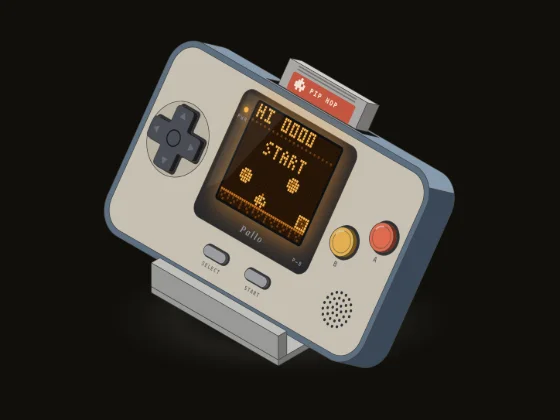
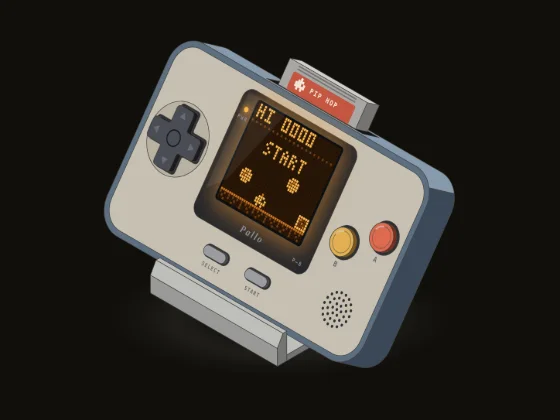
Give the handheld console's stand a chamfered lip
The stand was two plain boxes; it is now one display-stand profile: a thin base under the console and a lip with a chamfered top edge in front of the face, drawn as prisms through projected points. The shade callback that split the shell's sides took a parameter it never read; it now takes the normal. The thumbnails are shot again.

Changed region(s): [[0.2429, 0.619, 0.5161, 0.8667]]

diff --git a/packages/miniatures/src/figures/handheld-console.ts b/packages/miniatures/src/figures/handheld-console.ts
@@ -29,8 +29,8 @@ The console leans back 35° from upright. On it, u runs across (+x), v down its 
 from O, the face's top left corner; a lift of w moves a face point by (EU·w, EV·w), so the whole console is drawn in face
 coordinates: its silhouette as paths through Q, the parts on its face in one plane group.
 Part                     u / x        v / y        w / z        w     h
-stand base               38–112      −24–5          0–3         74    29   the console's bottom edge rests on it
-stand lip                38–112        0–5          3–15        74     5   in front of the face's bottom edge
+stand base               38–112      −24–0          0–3         74    24   the console's bottom edge rests on it
+stand lip                38–112        0–5.5        0–15        74   5.5   chamfered, in front of the face's bottom edge
 body (two-tone shell)     0–150        0–88       −18–0        150    88   r 13: a slate shell, the cream face plate inset 2.6
 screen bezel             42–108        6–64          0          66    58   the LCD, 40 × 36 px at 1.2, from (51, 9.5); LED, wordmark
 d-pad                    c 21 · 40, span 26.8, arms 9.4, 3.1 proud; it rocks 1.5 toward the arm pressed
@@ -40,7 +40,7 @@ speaker grille           c 130 · 68.5: rings of holes to r 7.2
 cartridge                52.5–97.5   −12–32      −13.5–−5       45    44   out of the slot in the top edge; ejects 18 further
 Print, lamps and labels share their parent face. */
 const svg=document.getElementById('machine'),root=document.getElementById('drawing');
-const{P,set,el,group,rect,circle,line,text,box}=kit(()=>root);
+const{P,set,el,group,rect,circle,line,text}=kit(()=>root);
 const f2=v=>(+v).toFixed(2),f4=v=>(+v).toFixed(4),clamp=(v,a=0,b=1)=>Math.max(a,Math.min(b,v)),RAD=Math.PI/180,ease=t=>(t=clamp(t),t*t*(3-2*t));
 // The console's frame: its face plane, the lift along its normal, and face coordinates to the drawing.
 const LEAN=35*RAD,SL=Math.sin(LEAN),CL=Math.cos(LEAN),W=150,H=88,T=18,R=13,ZB=3+T*SL;
@@ -56,19 +56,21 @@ function rpts(poly,rad,n=4){const m=poly.length,out=[];for(let i=0;i<m;i++){cons
 for(let k=0;k<=n;k++){const q=k/n,o=1-q;out.push([o*o*p0[0]+2*o*q*b[0]+q*q*p2[0],o*o*p0[1]+2*o*q*b[1]+q*q*p2[1]]);}}return out;}
 // The visible runs of an outline's sides (an edge faces the viewer when its outward normal runs against the lift), split by shade.
 function runs(pts,shade){const n=pts.length,nrm=pts.map((a,i)=>{const b=pts[(i+1)%n],nu=b[1]-a[1],nv=a[0]-b[0],l=Math.hypot(nu,nv)||1;return[nu/l,nv/l];});
-const vis=nrm.map(([nu,nv])=>nu*EU+nv*EV<-1e-6),cl=nrm.map(([nu,nv])=>shade?shade(nu,nv):''),out=[];
+const vis=nrm.map(([nu,nv])=>nu*EU+nv*EV<-1e-6),cl=nrm.map(n=>shade?shade(n):''),out=[];
 for(let i=0;i<n;i++){const h=(i+n-1)%n;if(!vis[i]||(vis[h]&&cl[h]===cl[i]))continue;const ch=[pts[i]];let j=i;do{j=(j+1)%n;ch.push(pts[j]);}while(vis[j]&&cl[j]===cl[i]&&j!==i);out.push({ch,c:cl[i]});}
 return out;}
 const band=(ch,lo,hi)=>[...ch.map(p=>lift(p,lo(p))),...ch.slice().reverse().map(p=>lift(p,hi(p)))];
 const at=k=>()=>k;
+// A prism along x through a profile in (y, z), counterclockwise: the faces that face the viewer, then its end at x1.
+function prism(pr,x0,x1,cls){const n=pr.length;pr.forEach((a,i)=>{const b=pr[(i+1)%n],ny=b[1]-a[1],nz=a[0]-b[0];if(ny+nz<=0)return;el('path',{d:dp([[x0,...a],[x1,...a],[x1,...b],[x0,...b]].map(q=>P(...q))),class:`face ${nz>.4*Math.hypot(ny,nz)?'top ':''}${cls}`});});el('path',{d:dp(pr.map(([y,z])=>P(x1,y,z))),class:'face side '+cls});}
 function ctl(g,label,tab){for(const[k,v]of Object.entries({class:'control',role:'button',tabindex:tab?'0':'-1','aria-label':label}))set(g,k,v);return g;}
 
 // Floor: the soft ground shadow (and the dark stage's contact shadow), then the stand's base under the console.
 const sc=P(88,-20,0);for(const c of['shadow stage-floor','stage-contact'])el('ellipse',{cx:f2(sc[0]),cy:f2(sc[1]),rx:60,ry:21,class:c});
-box(38,-24,0,74,29,3,.5,'stand');
+prism([[-24,0],[0,0],[0,3],[-24,3]],38,112,'stand');
 // The body: its shell's visible sides (the top edge lighter), the shell's front rim and the cream face plate.
 const BODY=rrp(0,0,W,H,R,12);
-for(const r of runs(BODY,(nu,nv)=>nv<-.6?'top':'side'))el('path',{d:dp(band(r.ch,at(-T),at(0)),Q),class:`face ${r.c} shell`});
+for(const r of runs(BODY,n=>n[1]<-.6?'top':'side'))el('path',{d:dp(band(r.ch,at(-T),at(0)),Q),class:`face ${r.c} shell`});
 el('path',{d:dp(BODY,Q),class:'face shell'});el('path',{d:dp(rrp(2.6,2.6,W-5.2,H-5.2,R-2.6,12),Q),class:'face plate'});
 el('path',{d:dp([[47,0,-3.4],[103,0,-3.4],[103,0,-15],[47,0,-15]].map(([u,v,w])=>lift([u,v],w)),Q),class:'face slot'});
 // The face: bezel with the LCD window, the LED and wordmark; seats for the buttons; the speaker grille; print.
@@ -126,11 +128,11 @@ function drawCart(d){const vt=-12-d,F=list=>dp(list.map(([u,v,w])=>qp(u,v,w)));
 set(cartR,'d',F([[CU1,vt,CW1],[CU1,vt,CW0],[CU1,0,CW0],[CU1,0,CW1]]));set(cartT,'d',F([[CU0,vt,CW0],[CU1,vt,CW0],[CU1,vt,CW1],[CU0,vt,CW1]]));set(cartF,'d',F([[CU0,vt,CW1],[CU1,vt,CW1],[CU1,0,CW1],[CU0,0,CW1]]));
 set(lab,'transform',`${FACE} translate(${f4(EU*CW1)} ${f4(EV*CW1-d)})`);set(sticker,'height',f2(8.2+Math.min(d,12)));
 set(cartRing,'d',F([[CU0-1.5,vt-1.5,CW1],[CU1+1.5,vt-1.5,CW1],[CU1+1.5,vt-1.5,CW0],[CU1+1.5,1,CW0],[CU0-1.5,1,CW1]]));}
-// The stand's lip, in front of the face's bottom edge.
-box(38,0,3,74,5,12,.5,'stand');
+// The stand's lip, chamfered, in front of the face's bottom edge.
+prism([[0,0],[5.5,0],[5.5,9],[2.2,15],[0,15]],38,112,'stand');
 // Framed on the console, the cartridge at the top of its eject, the stand and the dark stage's wider floor pool.
 {const pts=[...BODY.flatMap(p=>[Q(p),Q(lift(p,-T))]),...[[CU0,-30,CW1],[CU1,-30,CW0]].map(([u,v,w])=>qp(u,v,w))];
-for(const x of[38,112])for(const y of[-24,5])for(const z of[0,15])pts.push(P(x,y,z));pts.push([sc[0]-90,sc[1]-31.5],[sc[0]+90,sc[1]+31.5]);
+for(const x of[38,112])for(const y of[-24,5.5])for(const z of[0,15])pts.push(P(x,y,z));pts.push([sc[0]-90,sc[1]-31.5],[sc[0]+90,sc[1]+31.5]);
 const xs=pts.map(p=>p[0]),ys=pts.map(p=>p[1]),x0=Math.min(...xs)-6,y0=Math.min(...ys)-6;set(svg,'viewBox',[x0,y0,Math.max(...xs)+6-x0,Math.max(...ys)+6-y0].map(v=>+v.toFixed(2)).join(' '));}
 
 // Pip Hop, on a 40 × 36 LCD: a score and hearts on top, then five rows of five-pixel cells over the ground. Coins fall a row
